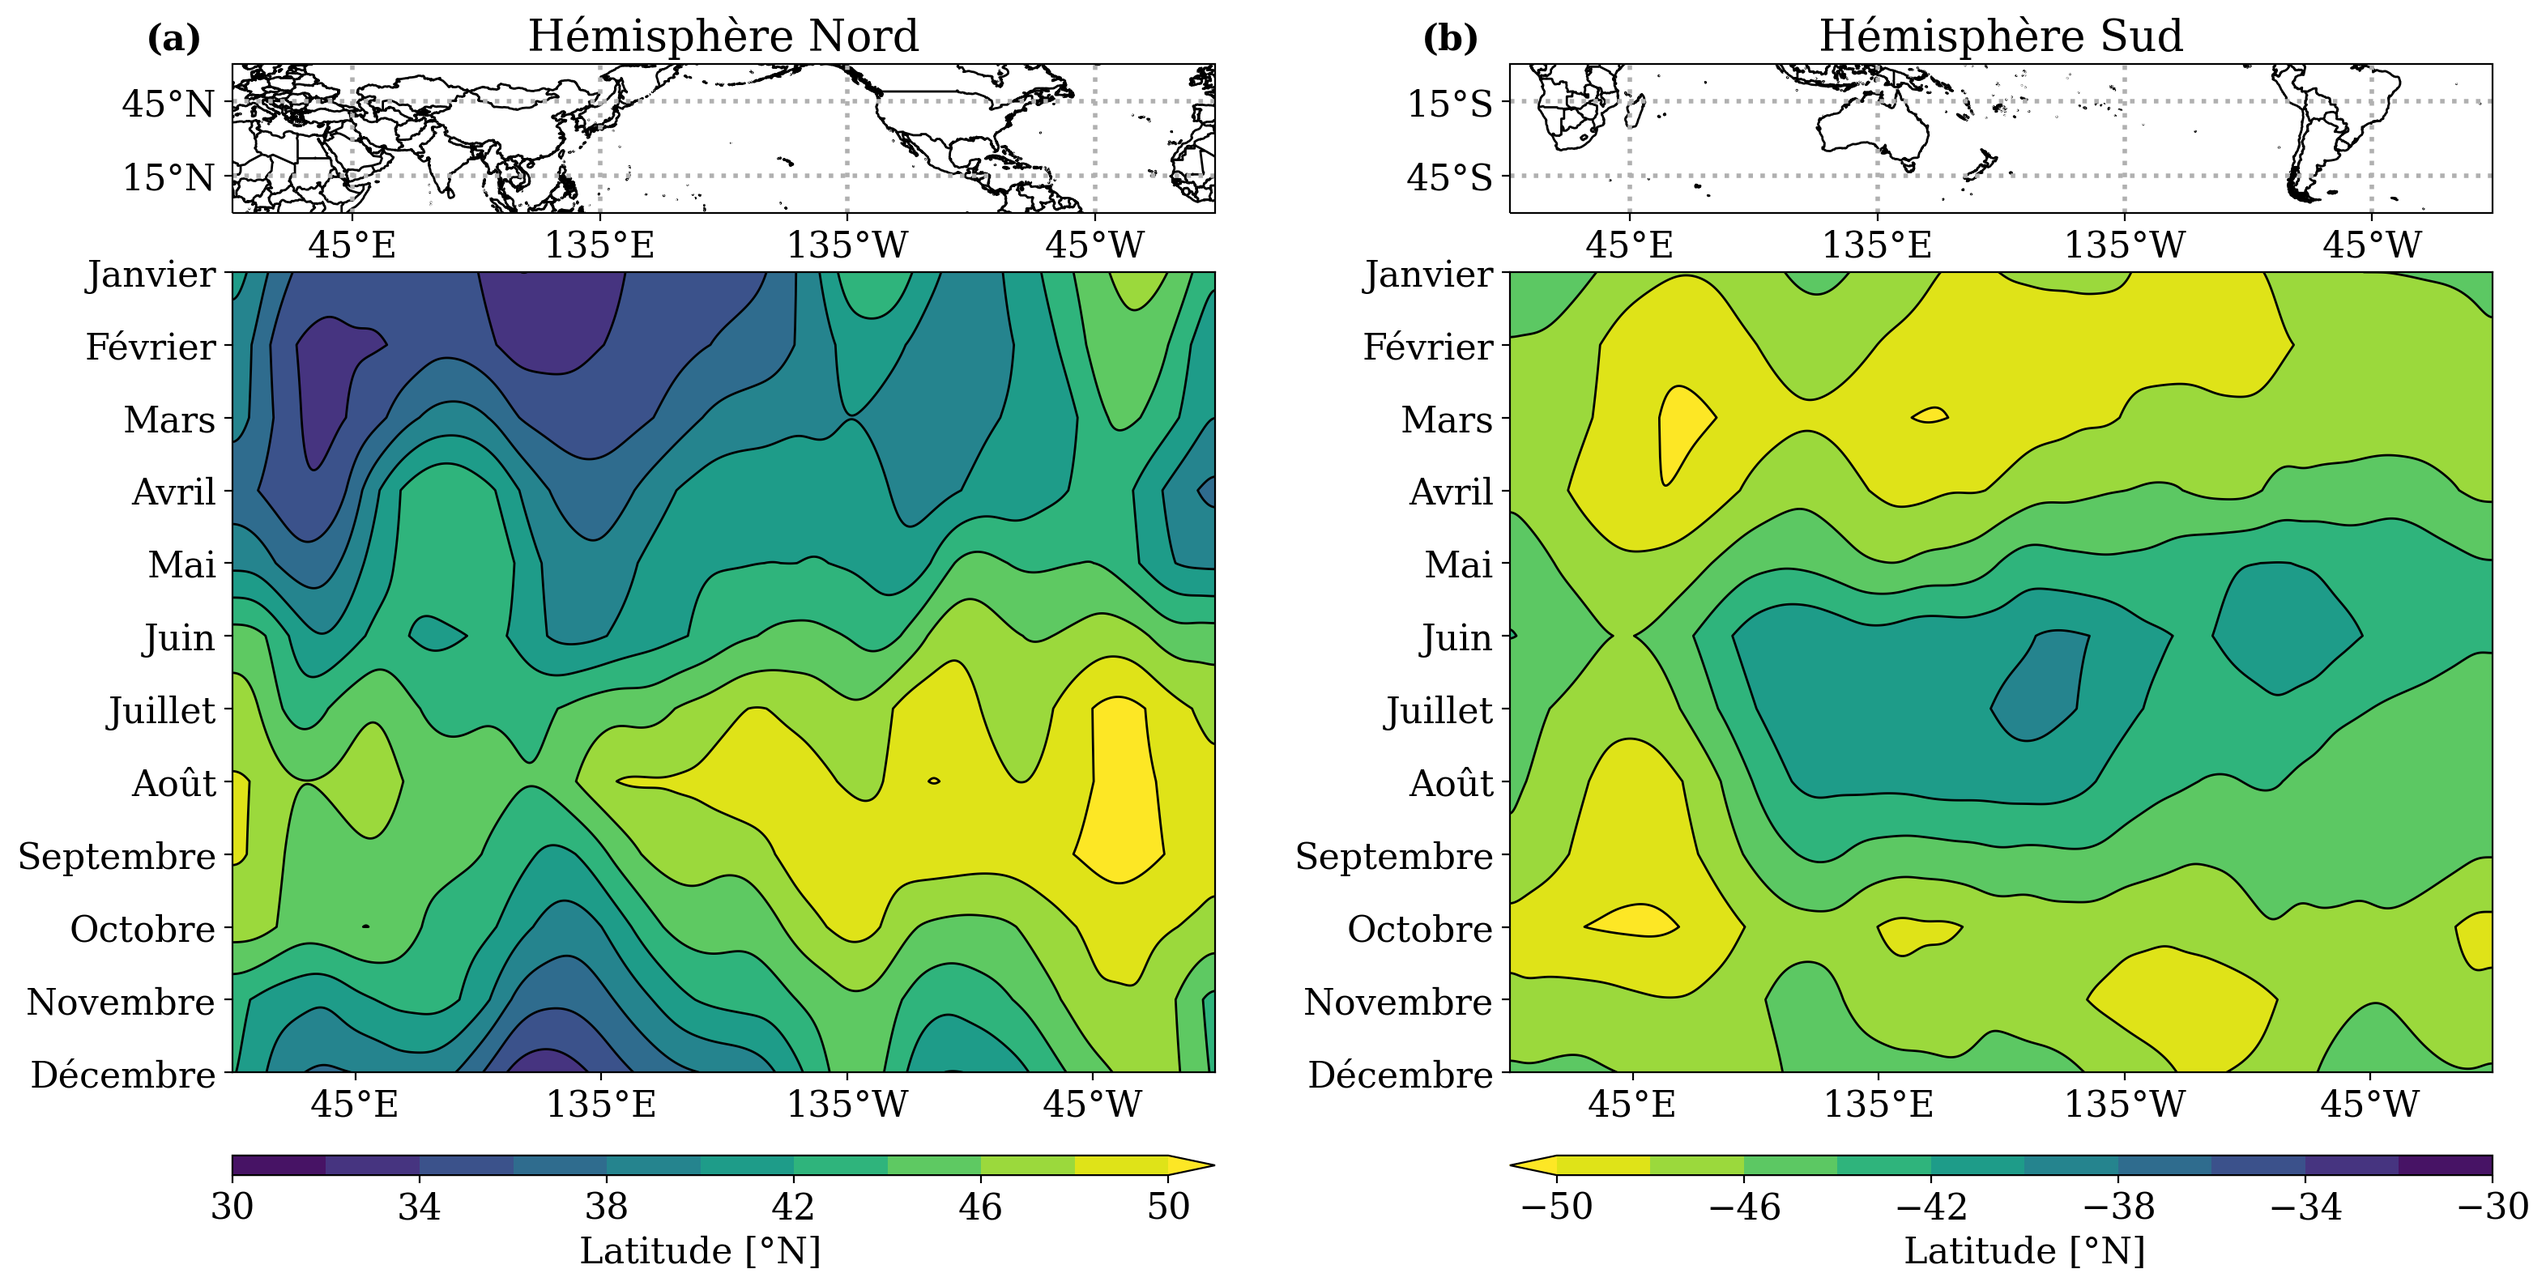
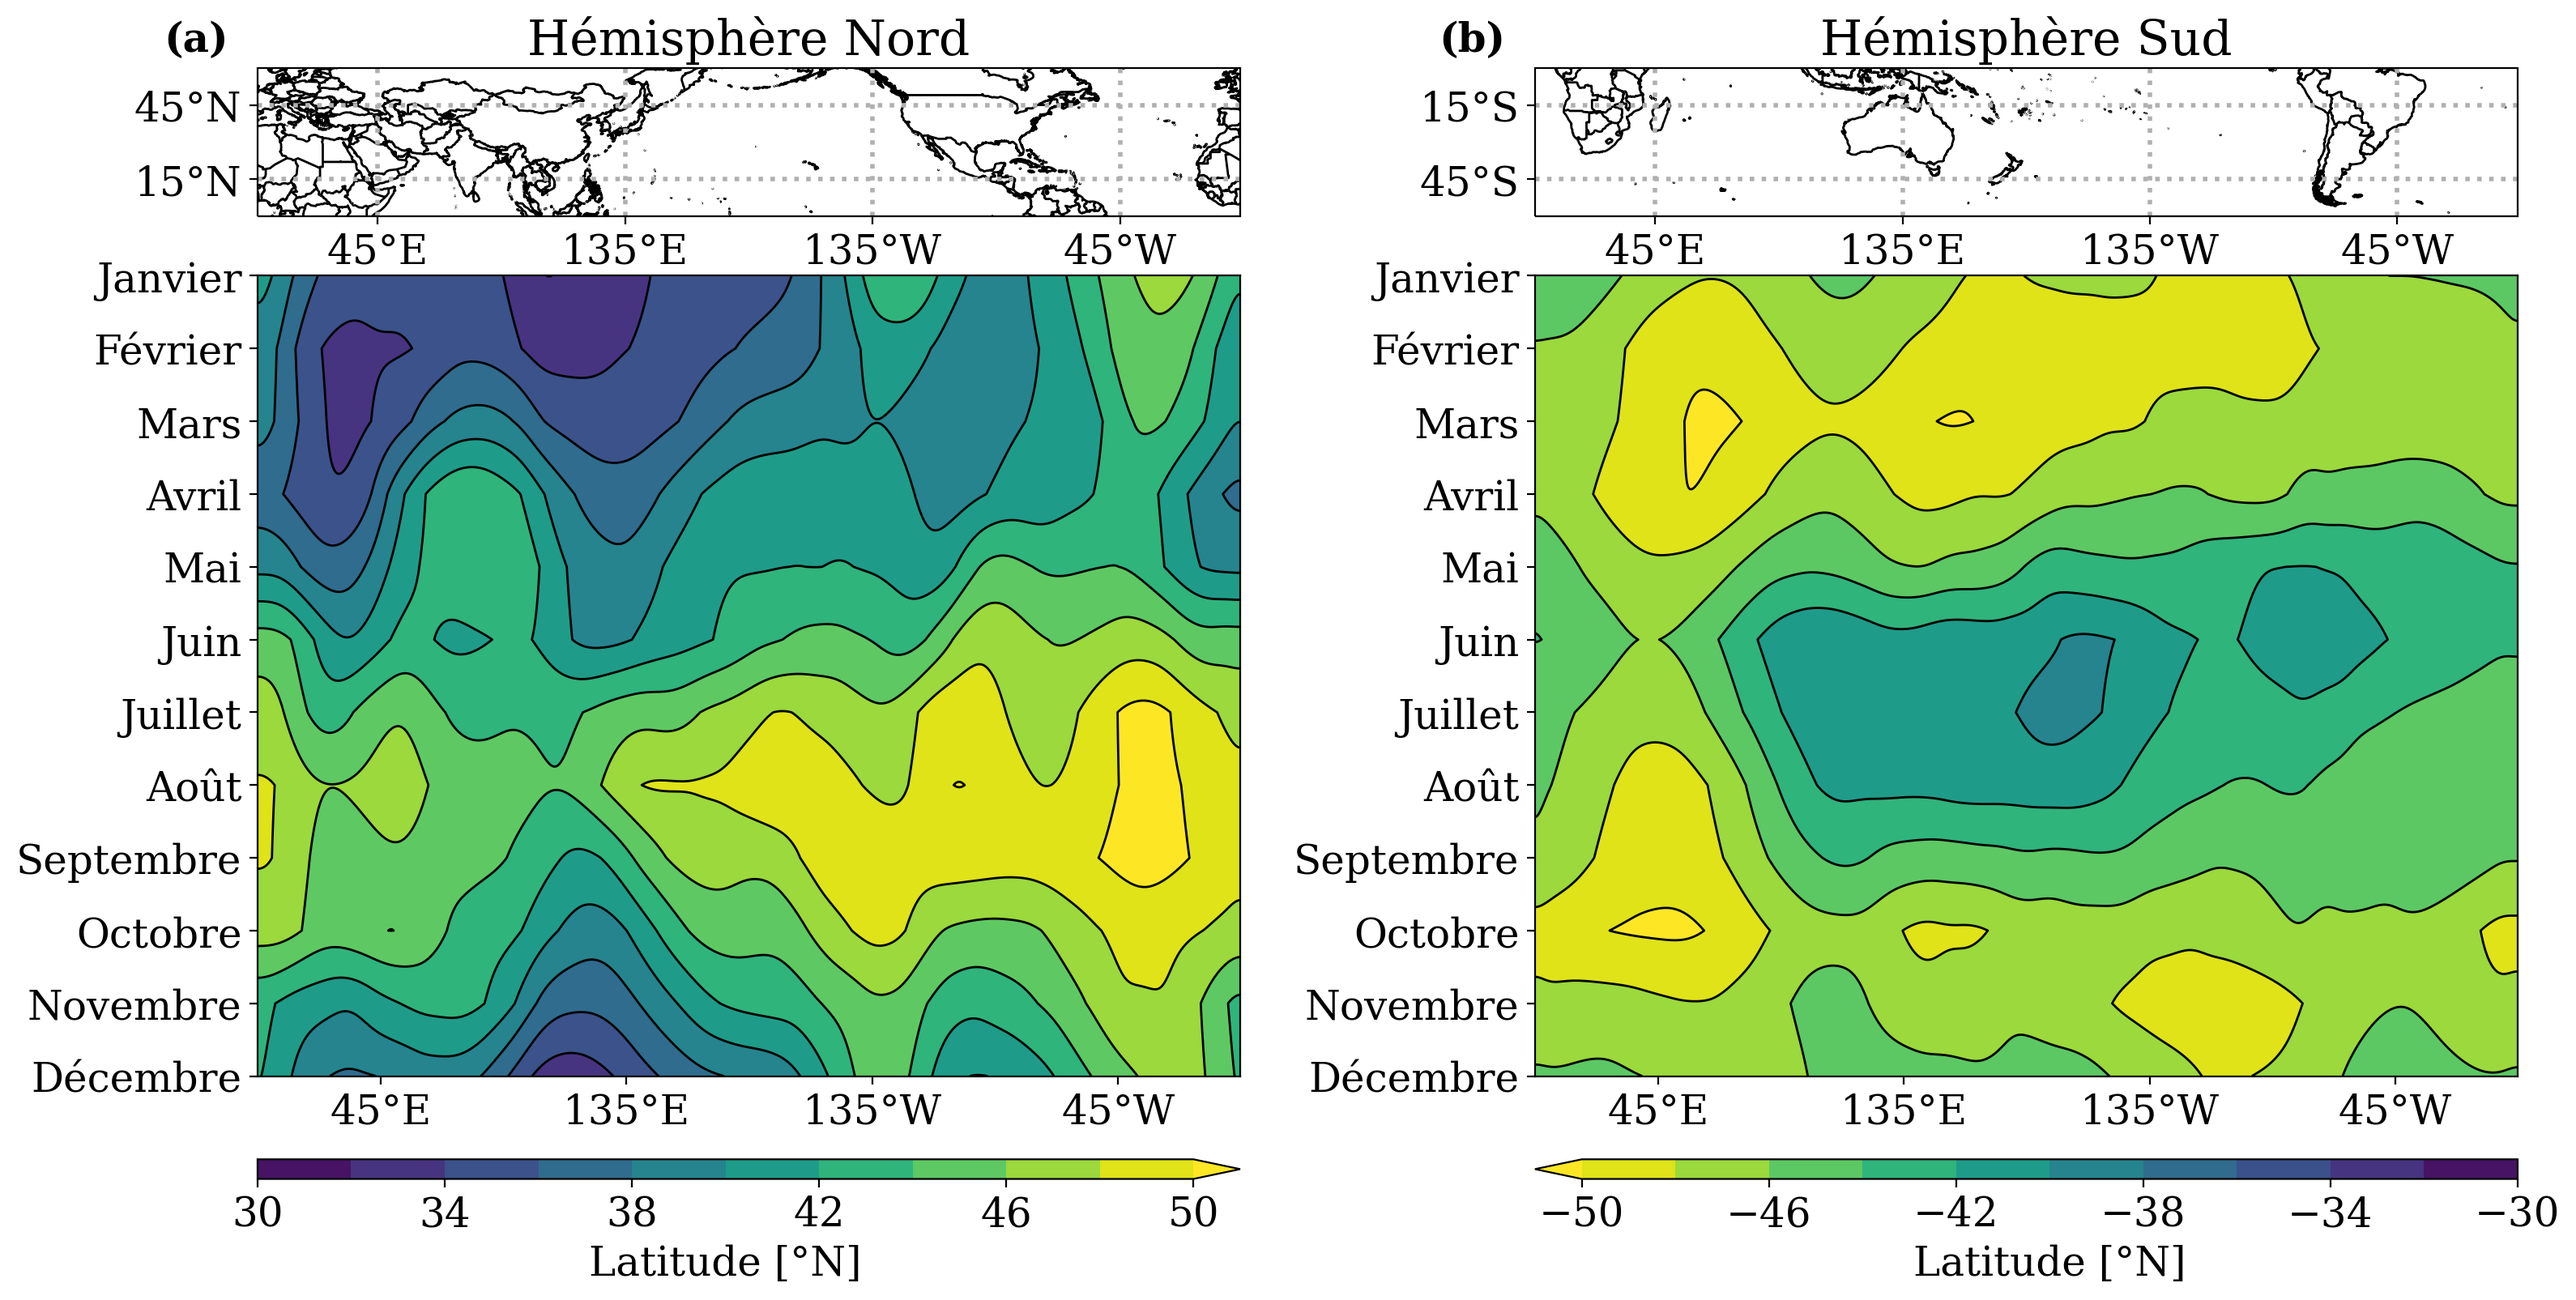
Avancement filtres moyennes latitudes

diff --git a/Chapitres/chapitre2.tex b/Chapitres/chapitre2.tex
@@ -22,18 +22,18 @@ expériences à climat plus chaud. En effet, si tous les traqueurs de TC partage
 néanmoins une très grande diversité. Les premiers schémas de détection étaient basés uniquement sur la MSLP et la vitesse des vents
 \parencite{bengtsson_simulation_1982,broccoli_can_1990}, tandis que \cite{haarsma_tropical_1993,bengtsson_hurricanetype_1995} ajoutèrent à cela des critères sur
 la vorticité ainsi qu'un diagnostique sur la présence d'un cœur chaud, dans l'optique de discriminer les perturbations tropicales de leurs homologues
-extra-tropicales. \cite{wu_gcm_1992} utilisèrent des critères supplémentaires conçus pour discriminer les perturbations tropicales sèches via un seuil
-d'humidité relative, les perturbations équatoriales d'est en interdisant le vent d'est à \hPa{950} au point situé à \ang{4.5} au nord et au sud du cyclone,
-ainsi que les perturbations barocliniques en bornant la vitesse du vent d'ouest à \hPa{200} au dessus du centre du cyclone à \ms{5}. Dans
-\cite{bengtsson_hurricanetype_1995}, la méthodologie de détection introduit des tests de structure verticale du système, aussi bien sur le profil de vent que de
-température. En effet, après avoir identifié un centre cyclonique à travers la vorticité, pression minimum locale et vitesse du vent maximale dans une boîte
-autour du système, il s'agit alors de s'assurer de la présence d'une anomalie de température sur l'ensemble de la troposphère, par rapport à la moyenne prise
-dans cette boîte, puis de s'assurer également que l'anomalie à la tropopause est supérieure que celle à la couche limite. Un test similaire est réalisé sur le
-profil vertical de vent, en imposant que le vent moyen à \hPa{850} supérieur à la moyenne du niveau à \hPa{300}, toujours dans la boîte centrée. Beaucoup
-d'algorithmes de détection reprennent cette méthodologie, avec quelques variantes et spécificités. Une grande quantité de méthodologies et de seuils de
-détection sont décrits dans \cite{walsh_objectively_2007} ainsi que dans \cite[][Annexe B]{ullrich_tempestextremes_2017}, schémas dans lesquels la définition
-d'un TC et les valeurs numériques utilisées pour les divers seuils de détection sont souvent choisis de telle sorte à reproduire au mieux la climatologie
-observée \parencite{walsh_objectively_2007,tory_development_2013}.
+extra-tropicales. \cite{wu_gcm_1992} utilisent des critères supplémentaires conçus pour discriminer les perturbations tropicales sèches via un seuil d'humidité
+relative, les perturbations équatoriales d'est en interdisant le vent d'est à \hPa{950} au point situé à \ang{4.5} au nord et au sud du cyclone, ainsi que les
+perturbations barocliniques en bornant la vitesse du vent d'ouest à \hPa{200} au dessus du centre du cyclone à \ms{5}. Dans \cite{bengtsson_hurricanetype_1995},
+la méthodologie de détection introduit des tests de structure verticale du système, aussi bien sur le profil de vent que de température. En effet, après avoir
+identifié un centre cyclonique à travers la vorticité, pression minimum locale et vitesse du vent maximale dans une boîte autour du système, il s'agit alors de
+s'assurer de la présence d'une anomalie de température sur l'ensemble de la troposphère, par rapport à la moyenne prise dans cette boîte, puis de s'assurer
+également que l'anomalie à la tropopause est supérieure que celle à la couche limite. Un test similaire est réalisé sur le profil vertical de vent, en imposant
+que le vent moyen à \hPa{850} supérieur à la moyenne du niveau à \hPa{300}, toujours dans la boîte centrée. Beaucoup d'algorithmes de détection reprennent cette
+méthodologie, avec quelques variantes et spécificités. Une grande quantité de méthodologies et de seuils de détection sont décrits dans
+\cite{walsh_objectively_2007} ainsi que dans \cite[][Annexe B]{ullrich_tempestextremes_2017}, schémas dans lesquels la définition d'un TC et les valeurs
+numériques utilisées pour les divers seuils de détection sont souvent choisis de telle sorte à reproduire au mieux la climatologie observée
+\parencite{walsh_objectively_2007,tory_development_2013}.
 
 Parmi les traqueurs possédant des particularités remarquables, le plus communément utilisé est sans aucun doute le schéma de détection TRACK
 \parencite{hodges_how_2017}. Ce dernier a la particularité de systématiquement interpoler les champs du modèle à une basse résolution (T63, soit \km{210}),
@@ -123,14 +123,58 @@ La version publiée de \cite{dulac_assessing_2023} est présentée dans la \cref
 
 \subsection{Filtrage des systèmes de moyennes latitudes}\label{sec:filtrage_mid_latitudes}
 
+\subsection*{Introduction}
+
+La détection des cyclones tropicaux dans la réanalyse ERA5 et l'appariement de ces derniers avec le catalogue des best tracks, tel que pratiqué dans
+\cite{dulac_assessing_2023} et présenté dans la \cref{sec:papier}, révèle une quantité significative de systèmes identifiés \textquote{faux positifs} par
+l'algorithme d'appariement. Ces cas correspondent à des systèmes détectés dans la réanalyse mais pour lesquels aucune correspondance n'est identifiée dans
+IBTrACS. Dans \cite{dulac_assessing_2023}, le taux de faux-positivité intégré sur la période \num{1981}~--~\num{2019} et sur les cinq bassins océaniques
+d'intérêt s'élève à \prct{24} (\cref{sec:papier_results}). Lorsque le filtre appliqué en post-traitement et basé sur le paramètre $V_U^T$ de l'espace des phases
+de \cite{hart_cyclone_2003} est désactivé, cette quantité vaut alors \prct{60}. Une valeur $V_U^T < 0$, où $V_T^U$ est défini comme le gradient vertical entre
+\hPa{600} et \hPa{300} de la perturbation de hauteur géopotentielle maximale dans un rayon de \km{500} centré sur le cyclone, est indicatif de la présence d'un
+vent thermique (induit par la présence d'un cœur chaud) plus fort à \hPa{600} qu'à \hPa{300}. Ce paramètre permet alors de discriminer les cyclones tropicaux à
+cœur chaud des tempêtes extra-tropicales qui présentent souvent un cœur froid. Si ce filtre est si efficace, c'est en effet parce que la grande majorité des
+faux-positifs détectés par le traqueur dans ERA5 sont des systèmes de moyenne latitudes. La quantité de ces derniers est en partie un effet secondaire de
+l'optimisation des seuils de détection dans le but de maximiser la probabilité de détection, présentée dans la \cref{sec:papier_appendix_A}, mais les faux
+positifs du jeu de trajectoires obtenu avant optimisation, avec des seuils plus restrictifs, sont aussi largement constitués de systèmes extra-tropicaux.
+
+La discrimination des cyclones tropicaux des autres systèmes météorologiques tourbillonnaires constitue la difficulté principale de la détection objective de TC
+dans les modèles, et est la raison pour laquelle beaucoup de traqueurs, notamment ceux basés sur la méthodologie de \cite{bengtsson_hurricanetype_1995},
+fournissent une description si détaillée d'un TC à travers les diverses conditions et seuils à respecter, à l'instar du traqueur du CNRM. Force est de constater
+que ce n'est cependant pas suffisant, si bien que d'autres stratégies sont parfois employées. La solution la plus simple consiste à définir une contrainte en
+latitude. Une telle limite est parfois fixée à \ang{30} \parencite{bengtsson_simulation_1982,broccoli_can_1990,mcdonald_tropical_2005}, ou encore entre \ang{40}
+et \ang{45} \parencite{wu_gcm_1992,tsutsui_simulated_1996,tsutsui_implications_2002,oouchi_tropical_2006,zarzycki_multidecadal_2014}. Définir une limite fixe en
+latitude pose toutefois problème lorsqu'il s'agit de chercher à détecter les cyclones tropicaux dans des simulations à climat plus chaud, étant donné
+l'expansion des tropiques \parencite{lucas_expanding_2014,staten_reexamining_2018} et le décalage vers les pôles de l'activité cyclonique
+\parencite{kossin_poleward_2014,knutson_tropical_2020}. Ainsi, un filtre des systèmes de moyennes latitudes pour un schéma de détection ayant vocation à être
+appliqué à des simulation de réchauffement climatique se doit de pouvoir s'adapter à un climat altéré, et donc d'être un filtre dynamique.
+
+Dans cette section, nous discutons de considérations sur le filtrage des systèmes de moyennes latitudes dans le but d'expliquer le choix du filtre utilisé dans
+\cite{dulac_assessing_2023}. Une attention particulière est apportée à une solution envisagée pendant un temps pour le traqueur du CNRM, consistant en
+l'utilisation de la latitude du maximum de gradient méridional de hauteur géopotentielle à \hPa{200}. Cette piste basé est comparée à la méthode employée dans
+\cite{bourdin_intercomparison_2022}, consistant à utiliser la limite équatoriale du jet subtropical.
+
+\subsubsection*{Filtre du gradient de hauteur géopotentielle à \hPa{200}}
+
 \begin{figure}[htbp]
     \centering
     \includegraphics[width=\textwidth]{geopdy_clim_NH_SH.png}
     \caption{Diagramme de Hovmöller de la climatologie mensuelle de la latitude du gradient maximal de géopotentiel à \hPa{200}, pour l'hémisphère nord (a) et
-    sud (b). Contours de \ang{30}N à \ang{50}N (respectivement Sud) par pas de \ang{2}.}
+    sud (b), calculée de \num{1980} à \num{2020} avec la réanalyse ERA5. Contours de \ang{30}N à \ang{50}N (respectivement Sud) par pas de \ang{2}.
+    L'utilisation de contours dans cette figure rend le diagramme imparfaitement périodique.}
     \label{fig:geopdy_clim}
 \end{figure}
-
+%
+\begin{figure}[htpb]
+    \centering
+    \includegraphics[width=0.7\textwidth]{ophelia_geopdy_mean_geopt.png}
+    \caption{Trajectoire détectée dans ERA5 du cyclone Ophelia de la saison cyclonique 2017 sur fond du champ de hauteur géopotentielle à \hPa{200} moyenné
+    entre le 10 Octobre 2017 à 06:00 et le 17 Octobre à 00:00, correspondant respectivement à la première et dernière échéance détectée du système. Le tracé
+    rouge correspond à la latitude du maximum de gradient méridional du champ présenté.}
+    \label{fig:ophelia_z200}
+\end{figure}
+%
+\newpage
 \subsection{Métriques d'évaluation de la similarité des trajectoires}\label{sec:similarité}
 
 \subsubsection*{Introduction}
